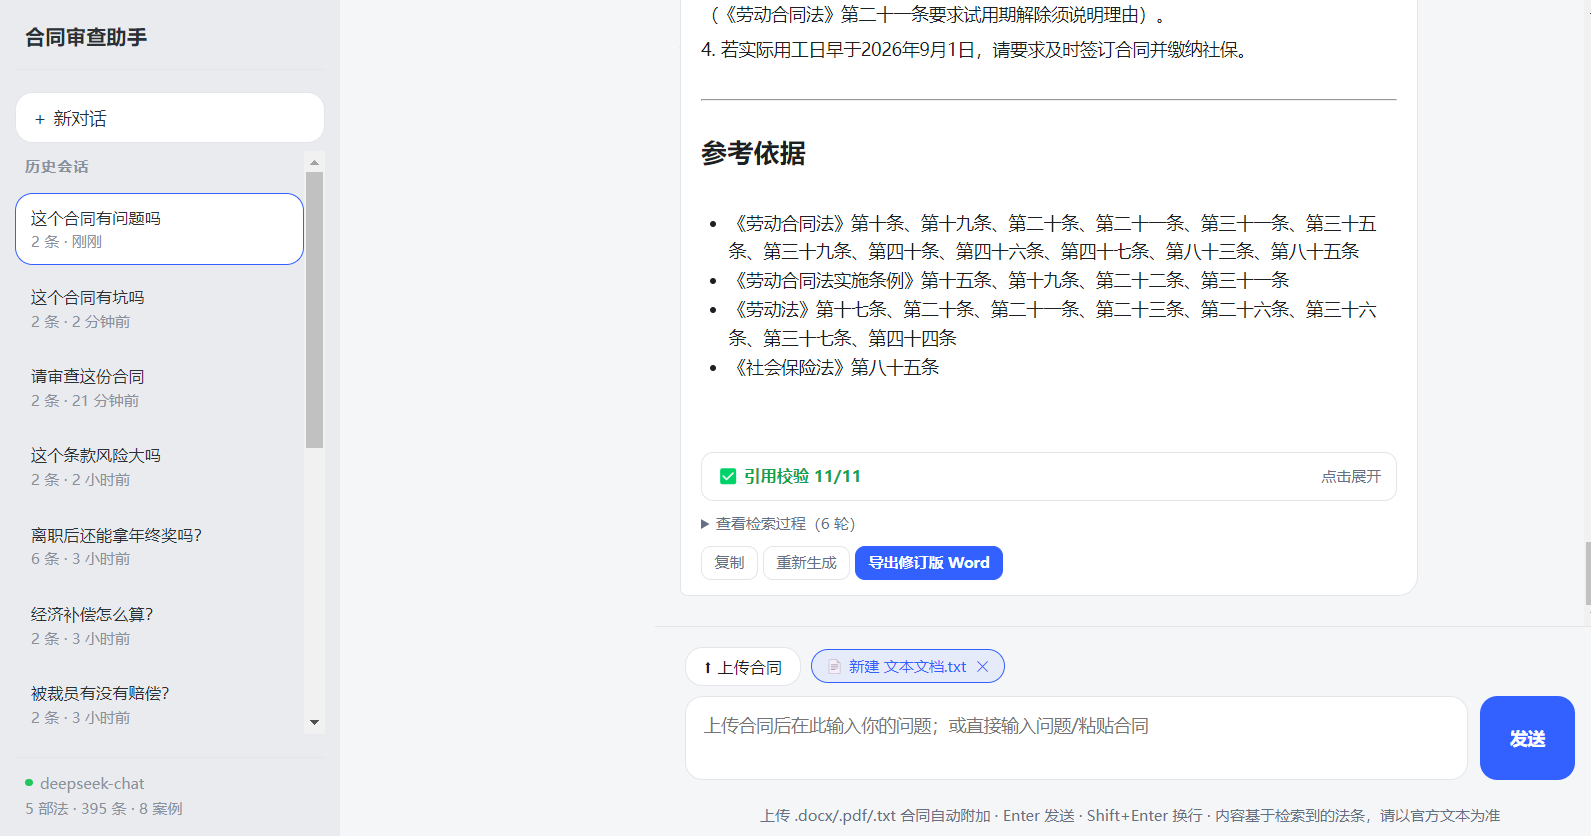
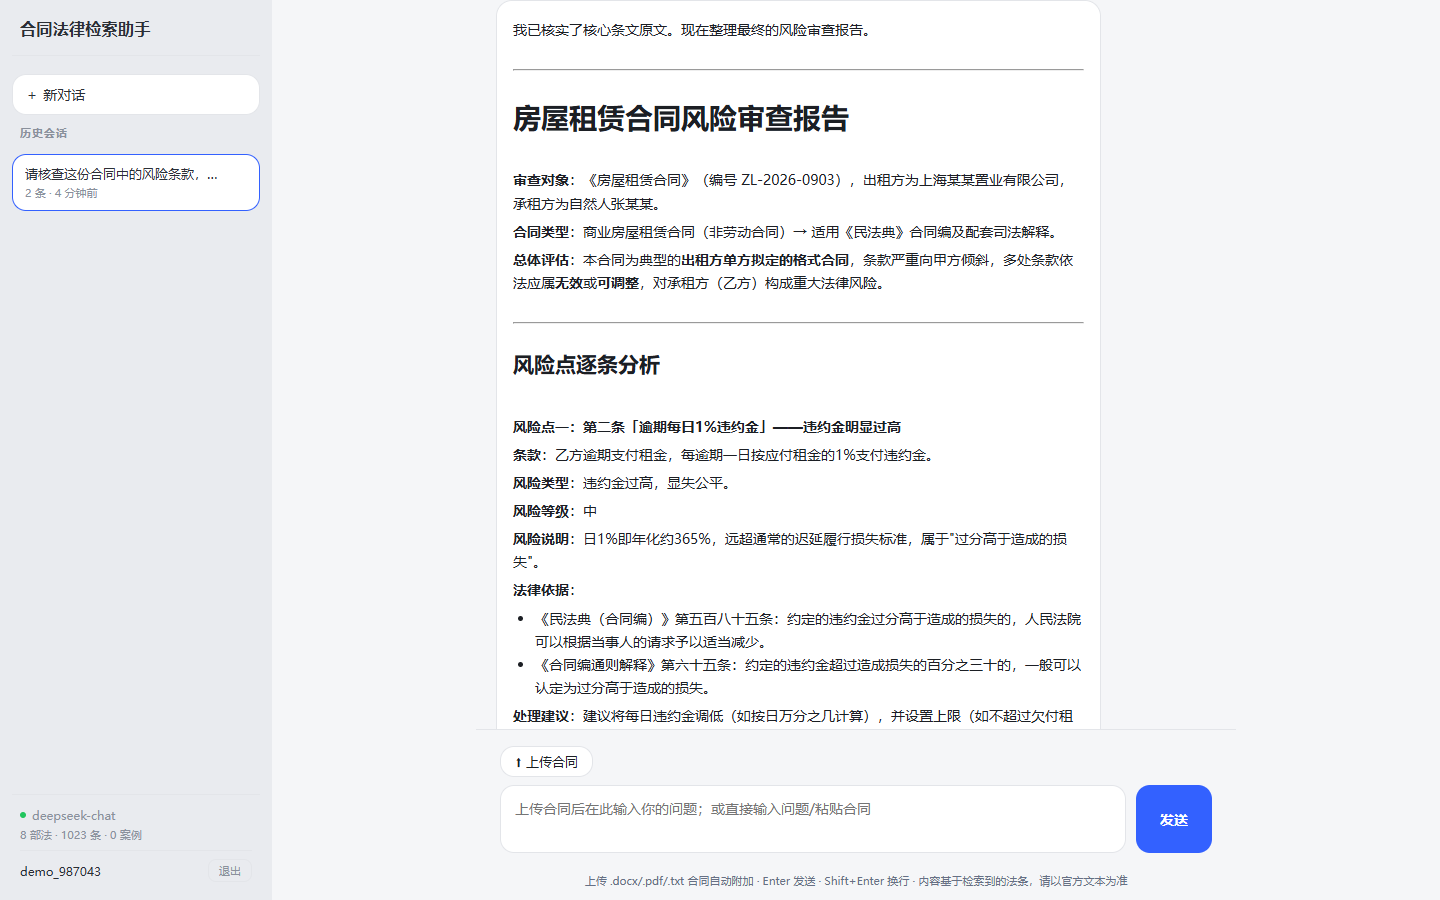
docs: 更新效果演示截图与演示文字，补充评测结果/语料范围章节
- 用 sample_lease_contract 真实跑一次核查并重新截图 img.png（风险审查报告视图）
- 演示文字对齐实际输出：5 类风险点、6 处引用全部核实、3 处复述偏离提示人工核对
- README 新增评测结果（risk_recall 91%/article_recall 90%）与语料范围/已知限制章节，章节重编号

diff --git a/README.md b/README.md
@@ -2,6 +2,8 @@
 
 面向合同法务初审场景：上传合同或直接提问，系统定位待核查条款，通过混合检索找到相关法律原文，并输出带证据引用的风险说明。项目聚焦 RAG 的检索质量、证据可追溯性与可复现评测，不直接生成、替换或签署合同。
 
+合同初审的实际难点不是“能否生成一段回答”，而是能否把合同中的具体条款稳定地映射到可核验的法律依据。为此，系统使用查询改写、向量 + BM25 混合检索、相邻法条扩展和引用校验，解决术语表达差异、关联法条遗漏与法条引用不可追溯的问题。
+
 ---
 
 
@@ -17,7 +19,7 @@
 
 ---
 
-## 2. 产品边界
+## 2. 产品边界与解决范围
 
 系统解决的是法务初审中的“从合同条款快速定位到可信法律依据”，而非自动决策或代替法务。处理链路如下：
 
@@ -36,7 +38,21 @@
 
 ---
 
-## 3. 效果演示
+## 3. 评测结果
+
+评测集由 4 份埋点合同组成，覆盖采购、租赁、技术服务和劳动合同，共 13 个风险点、11 条独立金标法条。金标法条会在评测启动时先与本地语料逐条核对，缺失即拒绝运行。
+
+| 指标 | 含义 | 历史基线（`--runs 3`，2026-08） |
+|---|---|---:|
+| risk_recall | 每个金标风险点至少命中一条对应法条的平均比例 | 91% |
+| article_recall | 金标法条被输出引用覆盖的比例 | 90% |
+| 引用校验用例 | 法条存在性、旧法名、张冠李戴、重复引用等确定性用例 | 8 / 8 通过 |
+
+`article_precision` 也由评测脚本计算，用于观察额外引用比例。LLM 输出具有采样随机性，正式演示或提交前应重新运行评测并更新上述基线。
+
+---
+
+## 4. 效果演示
 
 ![主界面](docs/screenshots/main_ui.png)
 
@@ -45,17 +61,17 @@
 ```
 "上传《房屋租赁合同》→ 请核查合同中的风险条款"
    └─ 单智能体 RAG 循环（while + function calling）
-        ├─ 识别风险条款：押金一律不退 / 甲方单方免责 / 违约金过高
+        ├─ 识别风险条款：押金不退 / 甲方免责 / 违约金过高 / 单方解除权 / 管辖约定
         ├─ retrieve("格式条款 免除责任 无效")    → 民法典497条
-        ├─ retrieve("免责条款 故意 重大过失")    → 民法典506条
+        ├─ retrieve("免责条款 人身损害 无效")    → 民法典506条（配套 712 条维修义务）
         ├─ retrieve("违约金 过分高于损失 调整")  → 民法典585条 + 通则解释65条
-        └─ 答案：逐条风险报告，每条引真实法条
-           └─ 引用校验：逐条核对引用是否存在于语料
+        └─ 答案：逐条风险报告（6 个风险点），每条引真实法条
+           └─ 引用校验：6 处条号全部核实存在，3 处复述偏离原文提示人工核对
 ```
 
 ---
 
-## 4. 快速开始
+## 5. 快速开始
 
 ```bash
 pip install -r requirements.txt            # 清华镜像
@@ -78,7 +94,7 @@ cd frontend && npm run build && python main.py   # → 开 http://127.0.0.1:8000
 
 ---
 
-## 5. 架构 / 设计
+## 6. 架构 / 设计
 
 ### 检索：向量 + BM25 双路，RRF 融合
 
@@ -123,7 +139,29 @@ fusion_score(i) = Σ_source 1 / (rrf_k + rank(source, i))   # 典型 rrf_k = 60
 
 
 
-## 6. 目录结构
+## 7. 语料范围与已知限制
+
+### 语料范围
+
+当前语料包含 8 部公开法律与司法解释，按“一个法条一个 chunk”切分，共 1023 个条文块：
+
+- 《民法典》合同编；
+- 《最高人民法院关于适用〈中华人民共和国民法典〉合同编通则若干问题的解释》；
+- 《最高人民法院关于审理买卖合同纠纷案件适用法律问题的解释》；
+- 《劳动法》《劳动合同法》《劳动合同法实施条例》；
+- 《社会保险法》《劳动争议调解仲裁法》。
+
+文本来源记录在各语料文件开头，主要来自国家法律法规数据库与中国人大网等公开官方渠道。语料文件和构建产物均保存在 `corpus/`，可通过 `python -m core.chunking` 重建索引。
+
+### 已知限制
+
+- 当前不含案例库、地方性法规、部门规章及跨法域材料；
+- 法律更新需要人工更新语料并重建索引，不具备自动追踪最新修法的能力；
+- 输出是检索辅助结论，复杂事实认定、争议策略和最终法律意见仍应由专业人员判断。
+
+---
+
+## 8. 目录结构
 
 ```
 corpus/                 # 语料 + 派生索引（8 部官方原文，1023 条）
@@ -138,7 +176,7 @@ core/                   # 检索与引用核心
 agent/                  # agent 循环（LLM = DeepSeek）
   llm.py / tools.py / prompts.py / loop.py / session.py
 sample_contracts/       # 评测埋点合同（4 份，含金标风险点）
-scripts/                # 验收与评测脚本（见第 8 节）
+scripts/                # 验收与评测脚本（见第 10 节）
 main.py                 # FastAPI 纯 API 后端（/api/* + CORS；演示模式托管前端 dist）
 cli.py                  # CLI 入口，与 web 共用 agent.loop.run
 frontend/               # Vue 3 + Vite 前端（前后端分离）
@@ -147,7 +185,7 @@ data/                   # SQLite 会话库 sessions.db（gitignored）
 
 ---
 
-## 7. 技术栈 / 依赖
+## 9. 技术栈 / 依赖
 
 | 层       | 技术                                         |
 |----------|----------------------------------------------|
@@ -160,11 +198,12 @@ data/                   # SQLite 会话库 sessions.db（gitignored）
 
 ---
 
-## 8. 测试 / 验收
+## 10. 测试 / 验收
 
 ```bash
 python scripts/verify_retrieval.py         # 检索验收：11/11 命中
 python scripts/verify_citations.py         # 引用校验验收：8/8 通过
+python -X utf8 scripts/eval_review.py --dry # 只校验金标与测试集，不调用 LLM
 python -X utf8 scripts/eval_review.py      # 评测：确定性引用召回率（--runs 调重复次数）
 ```
 
